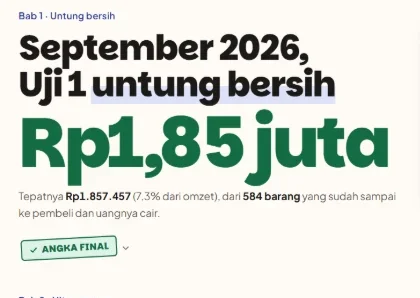
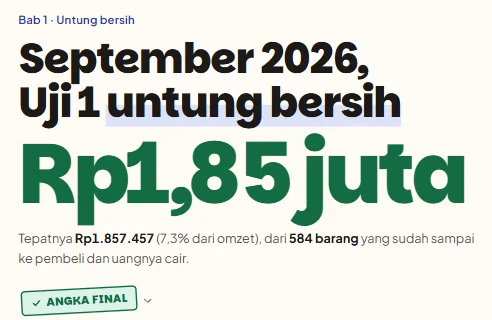
Landing 3: Rekap crops from the sharper 896px screenshot
Hero now shows Rekap chapter 1 only (net profit, Angka final, and the
"Kenapa untungnya segini?" box) at 800x340; the large preview shows the
whole chapter 2 down to "Untung bersih" at 800x660. Phone crops redone
from the same source. The large preview keeps its natural height instead
of being cropped to fill the frame.

Claude-Session: https://claude.ai/code/session_017BUvZQbh7WF7WL13xD53GA

diff --git a/src/landing3/content.ts b/src/landing3/content.ts
@@ -2,8 +2,8 @@
  * Landing 3: semua isi yang sering diganti pemilik ada di file ini.
  *
  * Asumsi dan placeholder yang masih harus diganti (juga dicatat di DESIGN.md, bagian "Landing 3"):
- *  - Empat screenshot sudah terpasang (toko uji "Uji 1", 22 Okt 2026). Rekap masih dari salinan beresolusi rendah
- *    dan terlihat agak kabur di hero desktop; ganti dengan potongan beresolusi penuh, nama file sama.
+ *  - Empat screenshot sudah terpasang (toko uji "Uji 1", 22 Okt 2026). Rasio bebas: tiap bingkai mengikuti rasio
+ *    gambarnya. Screenshot 2x (lebar ±2000px ke atas) akan lebih tajam di hero desktop.
  *    Kalau `src` dikosongkan (`null`), bingkai kembali menjadi placeholder bergaris putus-putus.
  *    Untuk mengganti: taruh gambar di public/screens/, isi `src`, `width`, `height`
  *    (ukuran asli file, supaya tata letak tidak melompat).
@@ -44,9 +44,8 @@ export type ScreenSlot = {
 
 /*
  * Screenshot dari toko uji "Uji 1" (data contoh, kiriman pemilik 22 Okt 2026), dipotong 16:10 di public/screens/.
- * Iklan desktop = ringkasan halaman Iklan (resolusi penuh); Iklan HP = satu kartu produk Takedown (salinan beresolusi
- * rendah). Rekap masih dari salinan beresolusi rendah (lebar sumber 649px): ganti dengan potongan beresolusi penuh
- * begitu tersedia, dengan nama file yang sama, lalu perbarui width/height.
+ * Rekap dari screenshot selebar 896px. Iklan desktop = ringkasan halaman Iklan (resolusi penuh); Iklan HP = satu kartu
+ * produk Takedown (dari salinan beresolusi rendah). Ganti file dengan nama yang sama, lalu perbarui width/height.
  */
 export const HERO_SCREEN: ScreenSlot = {
   id: 'layar-utama',
@@ -54,11 +53,11 @@ export const HERO_SCREEN: ScreenSlot = {
   title: 'Rekap bulanan',
   alt: 'Contoh rekap bulanan HitungCuan untuk toko uji: September 2026 untung bersih Rp1,85 juta, status Angka final, dan kotak "Kenapa untungnya segini?" dengan dua alasan utama.',
   src: '/screens/rekap.webp',
-  width: 649,
-  height: 406,
+  width: 800,
+  height: 340,
   srcMobile: '/screens/rekap-hp.webp',
-  widthMobile: 420,
-  heightMobile: 298,
+  widthMobile: 492,
+  heightMobile: 320,
 }
 
 export const PREVIEW_SCREENS: ScreenSlot[] = [
@@ -66,13 +65,13 @@ export const PREVIEW_SCREENS: ScreenSlot[] = [
     id: 'layar-rekap',
     placeholder: 'PLACEHOLDER SCREENSHOT: Rekap dan alasan untung',
     title: 'Rekap dan alasan untung',
-    alt: 'Contoh bagian "Dari omzet sampai untung" di Rekap: pita pembagian omzet dan rincian omzet, voucher, potongan Shopee, kompensasi, sampai uang masuk dari Shopee.',
+    alt: 'Contoh bagian "Dari omzet sampai untung" di Rekap: pita pembagian omzet, lalu rincian omzet, voucher, potongan Shopee, uang masuk, modal, dan biaya sampai untung bersih Rp1.857.457.',
     src: '/screens/rekap-alasan.webp',
-    width: 649,
-    height: 497,
+    width: 800,
+    height: 660,
     srcMobile: '/screens/rekap-alasan-hp.webp',
-    widthMobile: 420,
-    heightMobile: 395,
+    widthMobile: 800,
+    heightMobile: 286,
   },
   {
     id: 'layar-iklan',

diff --git a/src/landing3/landing3.css b/src/landing3/landing3.css
@@ -1081,9 +1081,9 @@ html.js .sheet { --p1: 0; --p2: 0; --p3: 0; }
   .wall-big .shot-empty { aspect-ratio: auto; height: calc(100% - 2rem); min-height: 22rem; }
   .wall-big { display: flex; flex-direction: column; }
   .wall-big .shot-empty { flex: 1; }
-  /* Dengan gambar: isi tinggi dua preview kecil, potong dari atas kalau rasio gambarnya sedikit berbeda. */
-  .wall-big.has-img picture { flex: 1; min-height: 0; display: block; }
-  .wall-big.has-img .shot-img { height: 100%; object-fit: cover; object-position: top left; }
+  /* Dengan gambar: tinggi alami (tidak dipotong). Kalau lebih tinggi dari dua preview kecil, preview kecil kedua
+     turun ke bawah dan celah di antara keduanya jadi ruang kosong yang disengaja. */
+  .wall-big.has-img picture { display: block; }
 }
 
 /* ---------- Privasi (bidang indigo) ---------- */

diff --git a/DESIGN.md b/DESIGN.md
@@ -221,8 +221,8 @@ WhatsApp bawaan menyebut "tanya akses", tanpa uji coba atau harga. `og.png` dibu
 **Screenshot** (semua di `src/landing3/content.ts`, file di `public/screens/`): terpasang sejak 22 Okt 2026 dari toko uji
 "Uji 1" (data contoh). Hero = Bab 1 Rekap, preview besar = Bab 2 "Dari omzet sampai untung", kecil = ringkasan halaman Iklan
 ("iklan rugi Rp243 ribu"; di HP diganti satu kartu produk berlabel Takedown) dan Simulasi Harga saat harga jual belum
-diisi (rekomendasi harga). Rekap masih dari salinan beresolusi rendah (lebar sumber 649px), jadi hero desktop agak kabur;
-ganti dengan potongan beresolusi penuh.
+diisi (rekomendasi harga). Rekap dari screenshot selebar 896px: cukup tajam di HP, sedikit diperbesar di hero desktop; screenshot 2x akan lebih
+tajam. Rasio bebas, karena bingkai mengikuti rasio gambar.
 Angka di screenshot (Rp1,85 juta, produk kosmetik) berbeda dengan lembar contoh di bagian Saring (Rp3 juta, produk
 pakaian); keduanya berlabel Contoh. Rasio 16:10: hero 2240×1400, preview besar 1776×1110, dua preview kecil 1280×800 (bagian layar yang
 dizoom). Tiap slot boleh punya potongan khusus HP (`srcMobile`, dipakai di bawah 768px lewat `<picture>`), disarankan
